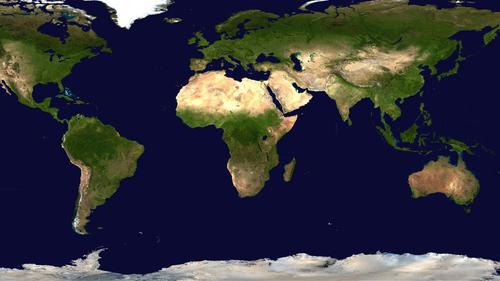
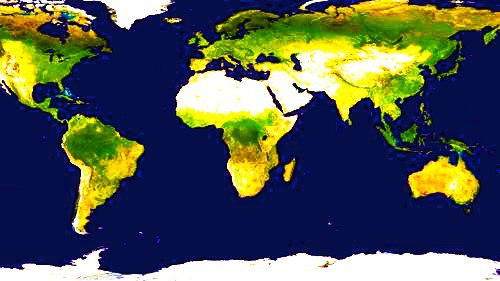
globus fix

diff --git a/public/assets_front/css/style.css b/public/assets_front/css/style.css
@@ -303,18 +303,14 @@ body{
 }
 
 #box {
-    background: url(https://cdn.rawgit.com/ManzDev/cursos-assets/gh-pages/css3/earth-2.jpg);
+    background: url("../../assets_front/img/globus.jpg");
     background-size: cover;
     border: 2px solid #000;
     border-radius: 50%;
     width: 200px;
     height: 200px;
     animation: movimiento 5s linear 0s infinite;
-    /*box-shadow: 0 0 25px RGBA(255, 255, 255, 0.10),*/
-    /*    -8px -8px 15px #000 inset,*/
-    /*    2px 2px 25px #000 inset,*/
-    /*    -45px -45px 25px RGBA(0, 0, 0, 0.5) inset,*/
-    /*    25px 25px 45px RGBA(0, 0, 0, 0.45) inset;*/
+    box-shadow: 0 0 5px RGBA(5, 5, 4, -0.9), 8px 1px 5px #000 inset, 2px 2px 5px #000 inset, -4px -5px 2px RGBA(0, 0, 0, 0.5) inset, 5px 2px 5px RGBA(0, 0, 0, 0.45) inset;
     transform: rotateX(6deg) rotateY(6deg) rotateZ(6deg);
 }
 
@@ -1174,7 +1170,7 @@ textarea::placeholder {
     margin: 20px 0;
 }
 .page_book-img{
-    width: 100%;
+    width: 280px;
     height: 300px;
     overflow: hidden;
 }
@@ -1204,6 +1200,7 @@ textarea::placeholder {
     border-bottom-right-radius: 20px;
     color: #000;
     height: 180px;
+    width: 280px;
     display: flex;
     flex-direction: column;
     justify-content: space-between;
